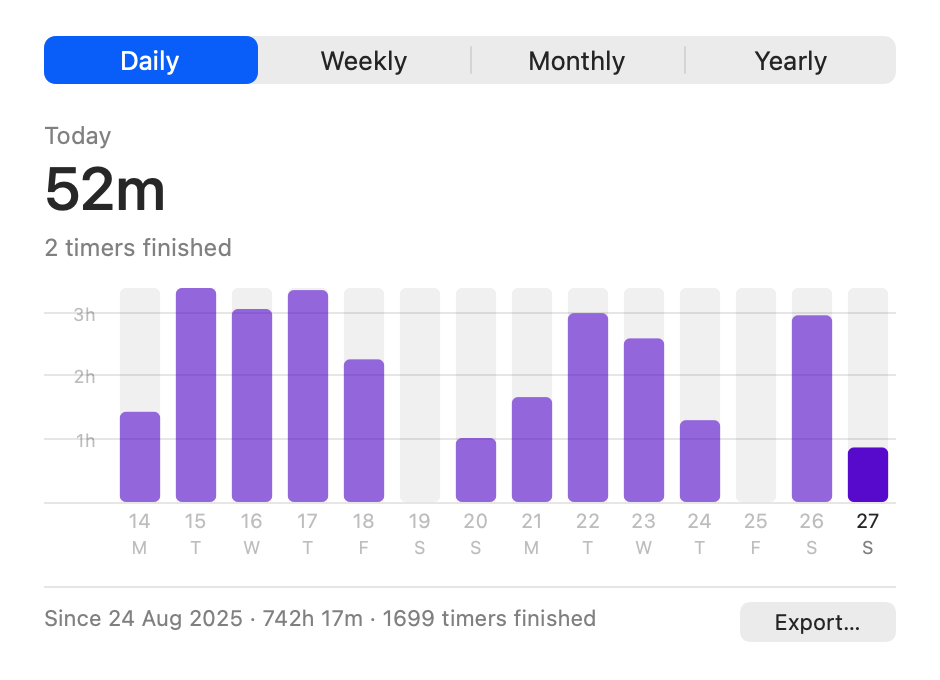
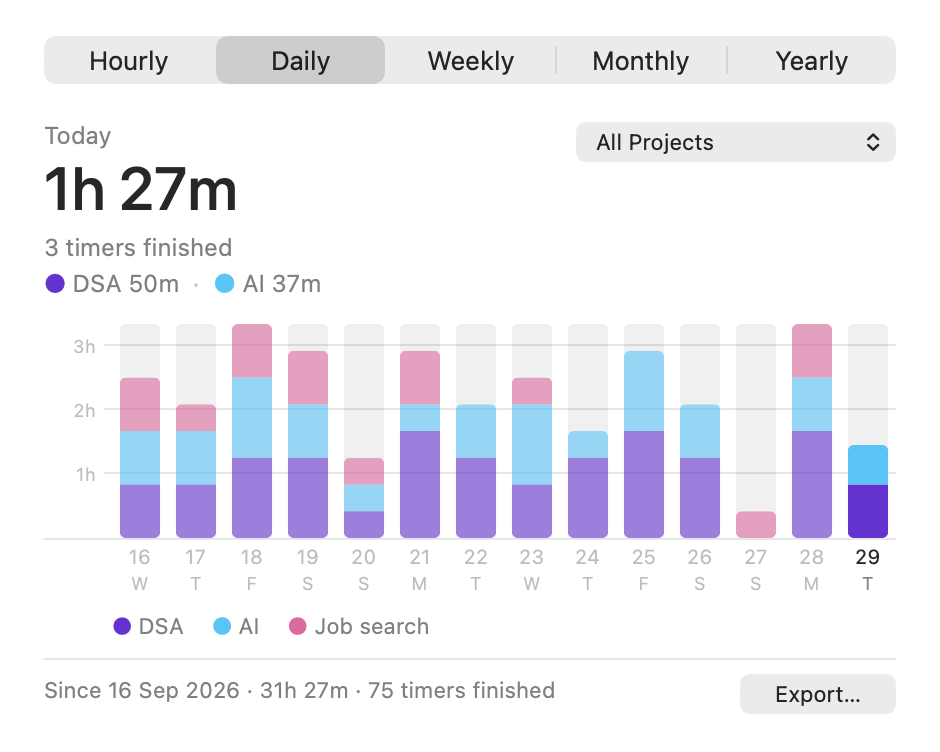
Show projects in the statistics screenshot

diff --git a/README.md b/README.md
@@ -80,7 +80,7 @@ unless you ask it to: **Export…** saves the whole record as a CSV file, groupe
 you are looking at it, with a column for each project, for a spreadsheet or a timesheet.
 
 <p align="center">
-  <img src="docs/statistics.png" width="470" alt="The Statistics window: a period picker, today's total of 3h 32m and 8 timers finished, a bar for each of the last fourteen days with today's picked out in a deeper purple, and a line along the bottom reading Since 22 Aug 2025, 750h 36m, 1718 timers finished, beside an Export button">
+  <img src="docs/statistics.png" width="470" alt="The Statistics window in its Daily view: today at 1h 27m with 3 timers finished and a breakdown of DSA 50m and AI 37m, a bar for each of the last fourteen days split into purple DSA, blue AI and pink Job search, a legend under the chart, an All Projects menu, and a line along the bottom giving the total since the first day beside an Export button">
 </p>
 
 ### Settings
